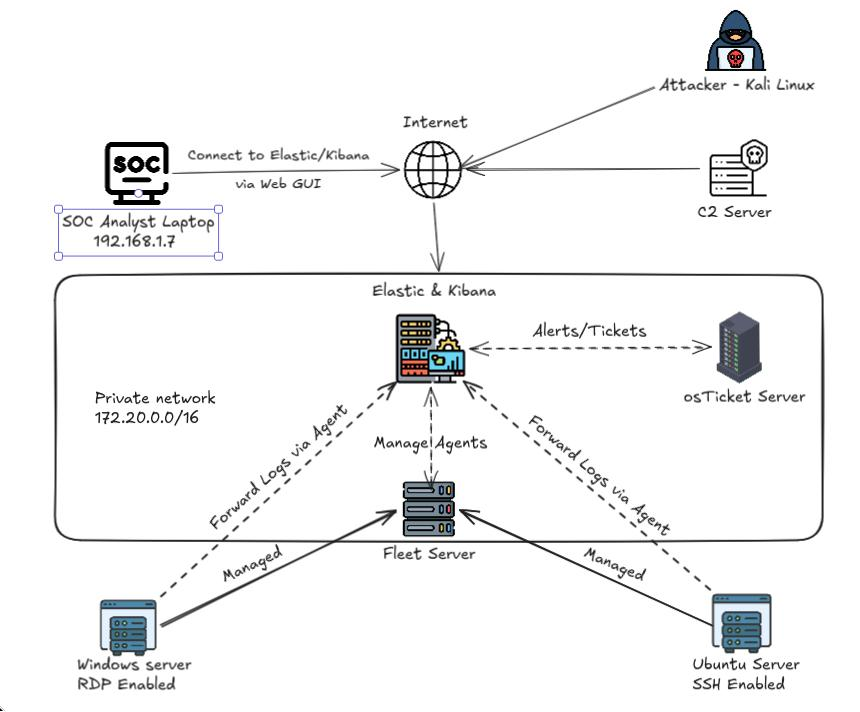
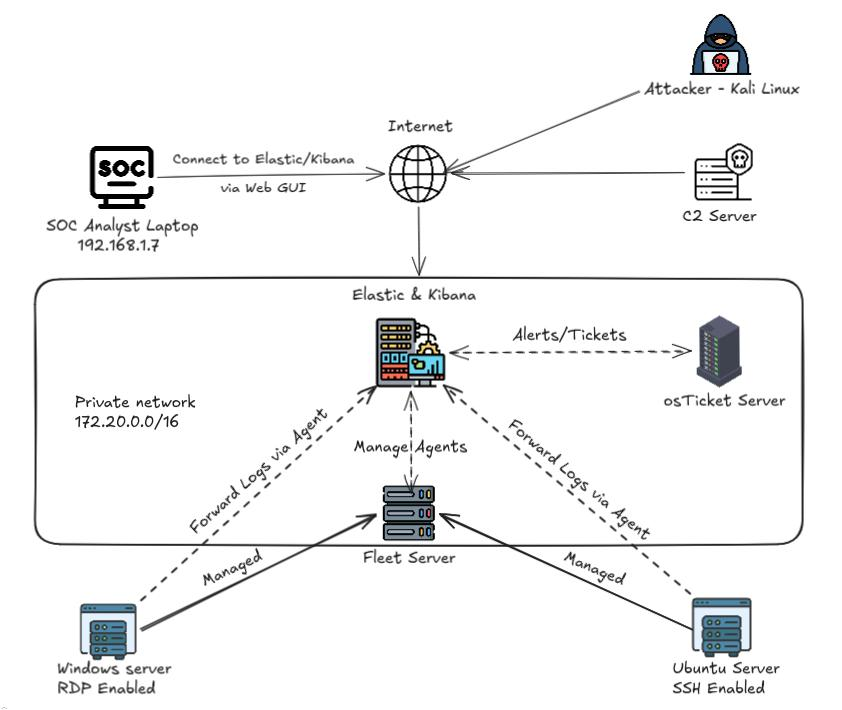
Update Post 1

Changed region(s): [[0.0309, 0.1549, 0.9572, 0.9915], [0.7102, 0.0, 0.9572, 0.1549], [0.6485, 0.1549, 0.7102, 0.1859]]

diff --git a/_posts/2026-07-03-Day1_Setup_Environment.md b/_posts/2026-07-03-Day1_Setup_Environment.md
@@ -163,7 +163,7 @@ _Hình 3: Đây là hình ảnh sau giao diện của Kibana khi ta đăng nhậ
 ### Fleet Server setup
 Đối với chình sách mới nhất của Elasitc Search ở đây yêu cầu ta phải dùng theo chuẩn HTTPS để đảm bảo an toàn tuy nhiên dưới góc độ là một bài lab cá nhân và chạy hoàn toàn local thì tôi đánh giá hướng đi này khá phức tạp (mặc dù điều này thực tế). Ngoài ra việc sử dụng HTTPS sẽ tăng thêm chi phí và dễ gặp phải một số thách thức khi ta chạy lab ở mạng nội bộ thì phải dùng Self-signed Certificate (Chứng chỉ tự ký) thay vì sử dụng các chứng chỉ public dẫn đến các trường hợp ngắt kết nối tự động/lỗi (x509: certificate signed by unknown authority). Chính vì thế trong phạm vị lab này ta sẽ sử dụng HTTP và thực hiện một số thủ thuật để đánh lừa và bypass cơ chế này của Elastic Search (hành động này không khuyến cáo chỉ phục vụ cho mục đích bài lab).
 
-Đầu tiên ta sẽ thực hiện cấu hình Fleet Server như thông thường và ta xác định bước verify URL chỉ nằm ở client-side.
+Đầu tiên ta sẽ thực hiện cấu hình Fleet Server như thông thường và ta xác định bước verify phía client-side.
 
 ![Intercepted Request](assets/img/material_posts/post_1/config_fleetServer.jpg){: width="800" height="500" }
 _Hình 4: Cấu hình chi tiết của Fleet Server trên Kibana._
@@ -183,7 +183,6 @@ _Hình 6: Kết quả thực tế._
 ### Cấu hình osTicket
 
 ### Cấu hình Iptables
-
 
 ## Thực nghiệm tấn công 
 ## Phân tích cách thức tấn công